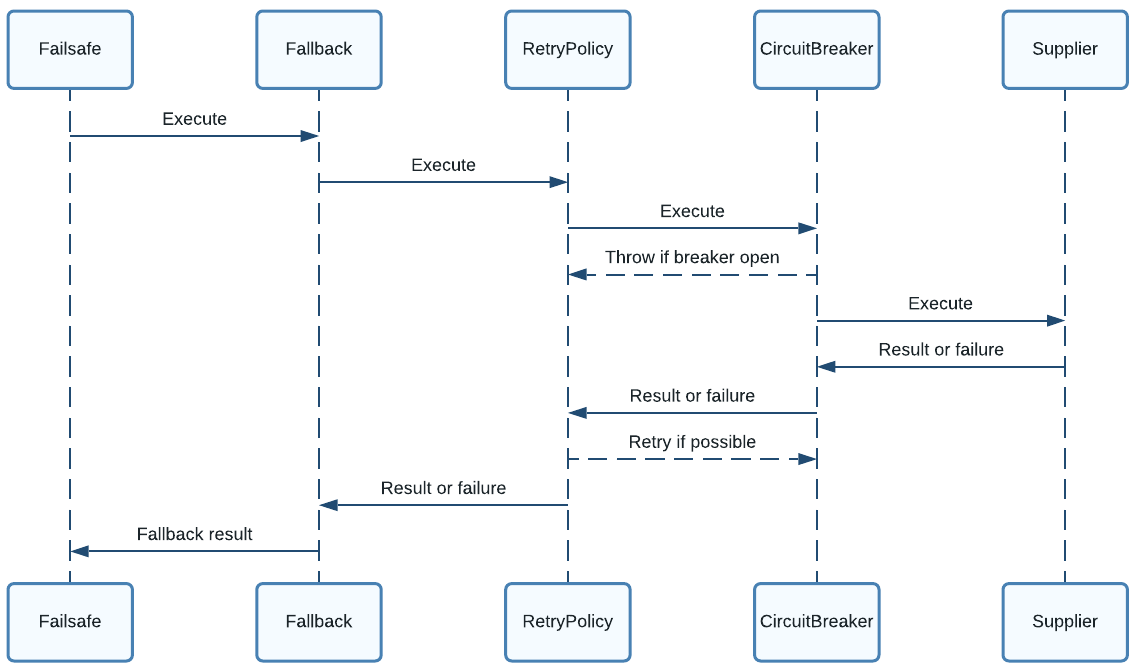
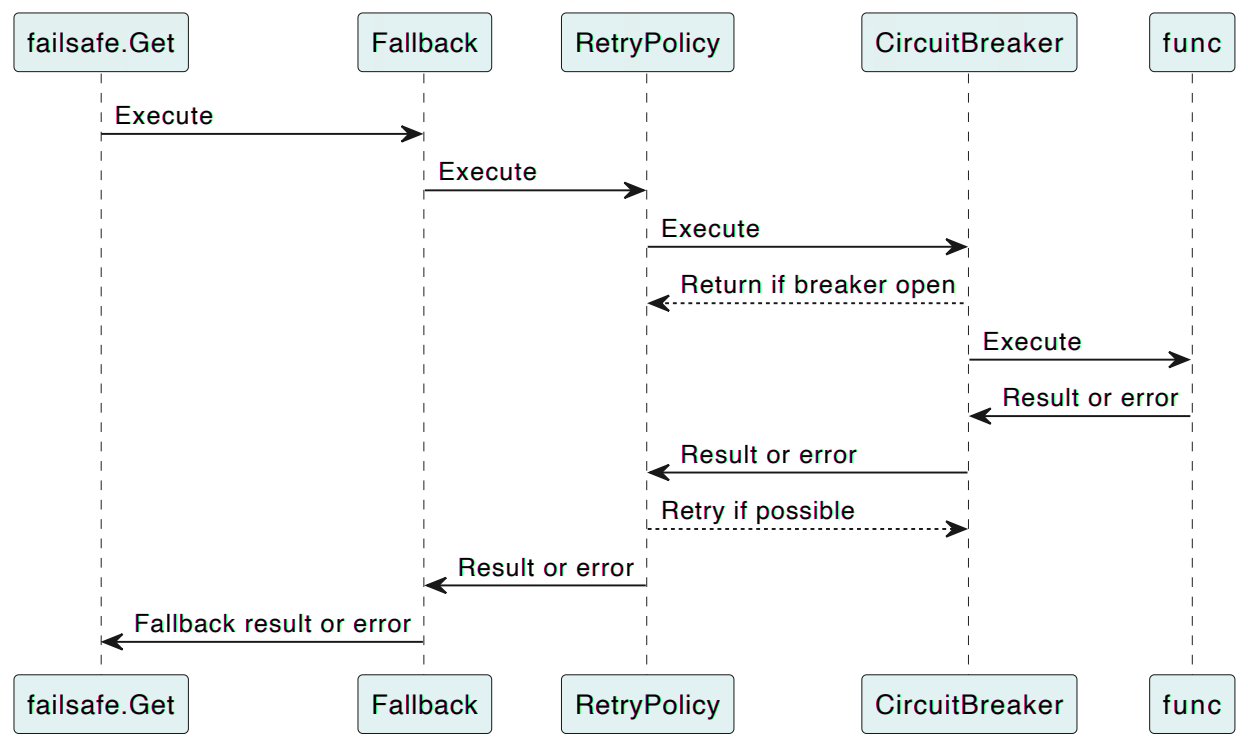
Update composition diagram

diff --git a/_sass/custom/custom.scss b/_sass/custom/custom.scss
@@ -142,3 +142,8 @@ $border-color: #e4e4e4;
   border-radius: 4px;
   background-color: #f6f6f6;
 }
+
+.composition {
+  padding-left: 17px;
+  padding-right: 50px;
+}

diff --git a/policies.md b/policies.md
@@ -57,19 +57,19 @@ Each policy makes its own decision to allow an execution attempt to proceed and 
 
 ### Example Execution
 
-Consider the following policy composition execution:
+Consider an execution of the following policy composition:
 
-<img src="/assets/images/composition.png">
+<img class="composition" src="/assets/images/composition.png">
 
-- Failsafe-go calls the `Fallback`
+- `failsafe.Get` calls the `Fallback`
 - `Fallback` calls the `RetryPolicy`
 - `RetryPolicy` calls the `CircuitBreaker`
 - `CircuitBreaker` rejects the execution if the breaker is open, else calls the `func`
-- `func` executes and returns a result or returns an error
+- `func` executes and returns a result or error
 - `CircuitBreaker` records the result as either a success or failure, based on its [configuration](#failure-handling), possibly changing the state of the breaker, then returns
 - `RetryPolicy` records the result as either a success or failure, based on its [configuration](#failure-handling), and either retries or returns
-- `Fallback` handles the result or error according to its configuration and returns a fallback result
-- Failsafe returns the final result or error to the caller
+- `Fallback` handles the result or error according to its configuration and returns a fallback result or error if needed
+- `failsafe.Get` returns the final result or error to the caller
 
 ### Composition and Error Handling
 
